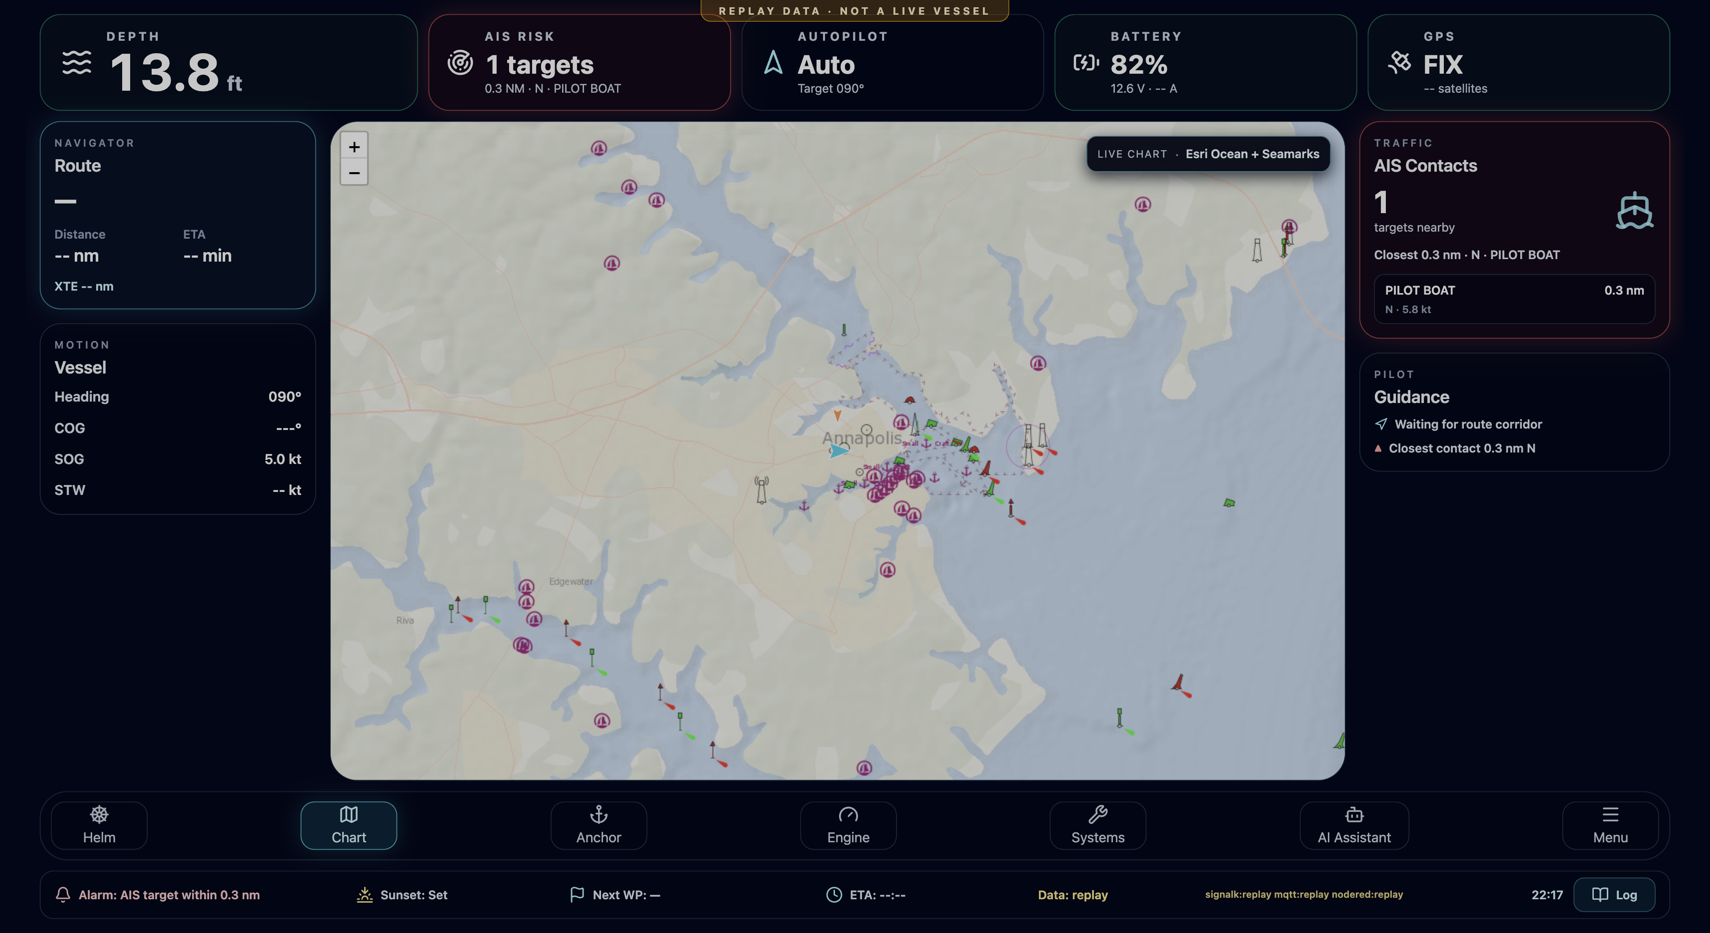
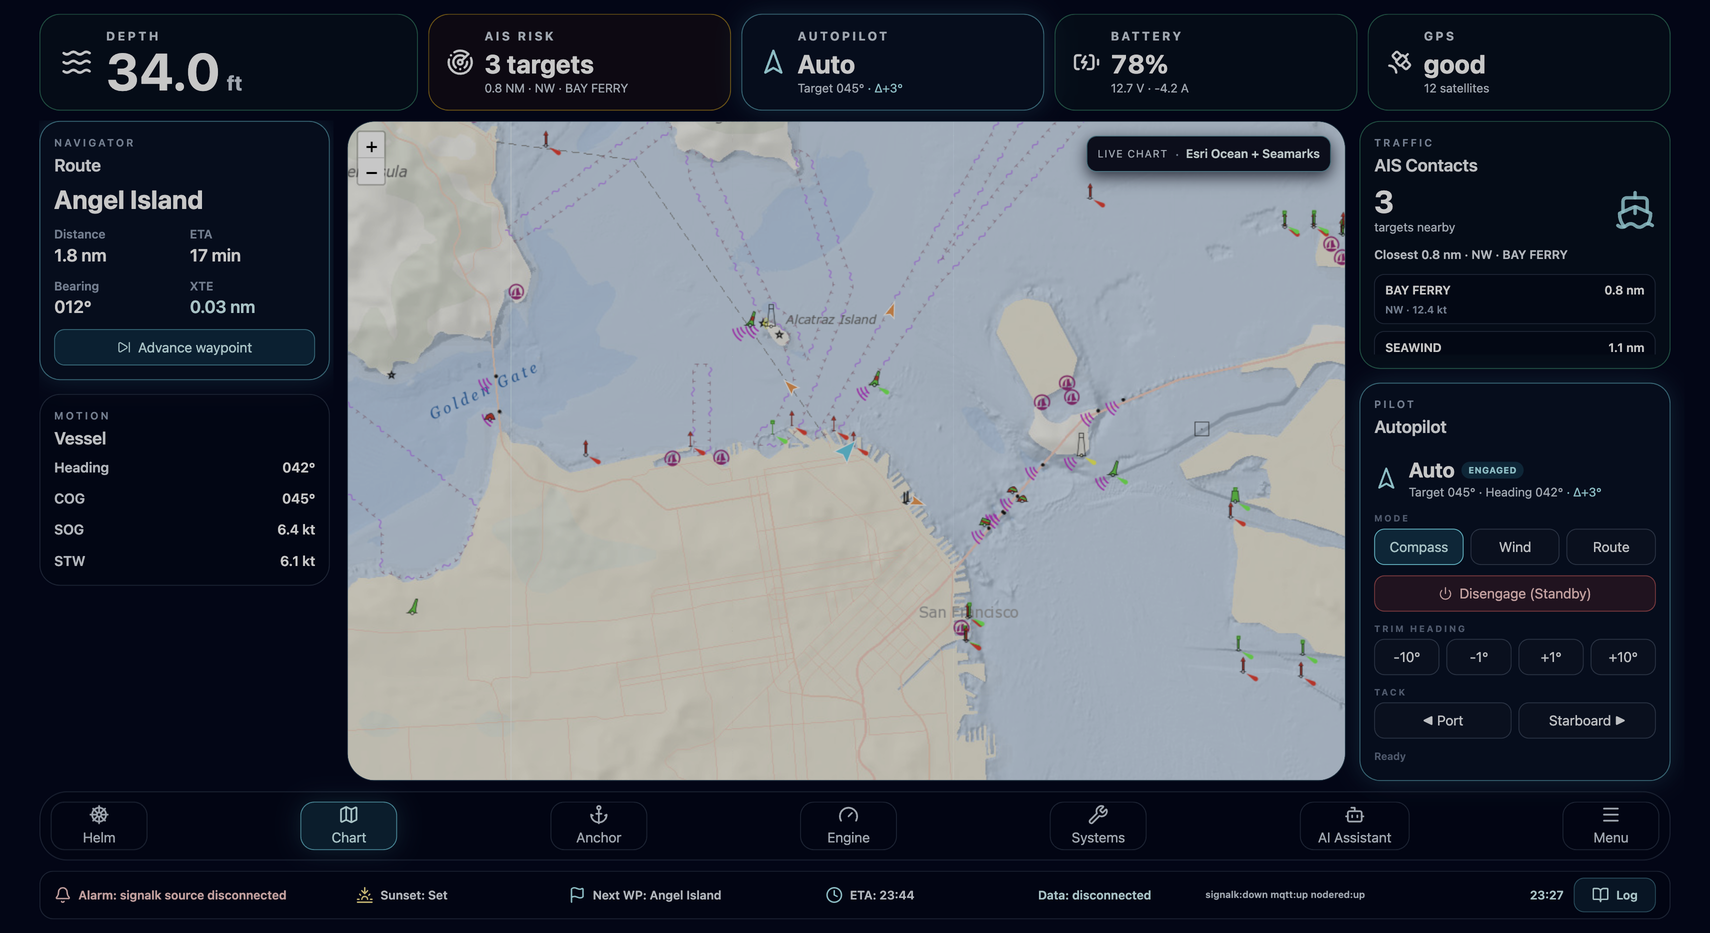
feat: refine autopilot control layout and document it
- Rework the autopilot control card: dedicated Mode row (Compass/Wind/
  Route), a clear full-width Disengage (Standby), and labeled Trim/Tack
  sections with an engaged-state badge, so the buttons read cleanly.
- Let the AIS list flex/scroll so the control card is never clipped.
- README: add an "Autopilot & route control" section and screenshot,
  document POST /command and the command-topic prefix, note the guarded
  controls in the safety section, and refresh the Chart screenshot.

diff --git a/src/components/autopilot/AutopilotControl.tsx b/src/components/autopilot/AutopilotControl.tsx
@@ -50,85 +50,105 @@ export function AutopilotControl() {
   const btn =
     'rounded-xl border px-3 py-2 text-sm font-bold transition disabled:cursor-not-allowed disabled:opacity-40';
   const neutralBtn = `${btn} border-slate-600/70 bg-slate-900/60 text-slate-100 hover:border-cyan-300/60`;
+  const sectionLabel = 'mb-1 text-[0.65rem] font-bold uppercase tracking-[0.22em] text-slate-500';
 
   return (
-    <Card title="Autopilot" eyebrow="Pilot" tone={engagedTone} className="flex flex-col gap-3">
+    <Card title="Autopilot" eyebrow="Pilot" tone={engagedTone} className="flex shrink-0 flex-col gap-3">
       <div className="flex items-center gap-3">
         <Navigation2 className={`h-7 w-7 shrink-0 ${engaged ? 'text-cyan-200' : 'text-slate-400'}`} />
         <div className="min-w-0 flex-1">
-          <div className="text-2xl font-bold capitalize text-white">{autopilot.state ?? '—'}</div>
+          <div className="flex items-center gap-2">
+            <span className="text-2xl font-bold capitalize text-white">{autopilot.state ?? '—'}</span>
+            <span
+              className={`rounded-full px-2 py-0.5 text-[0.65rem] font-bold uppercase tracking-wider ${
+                engaged ? 'bg-cyan-500/20 text-cyan-200' : 'bg-slate-700/60 text-slate-300'
+              }`}
+            >
+              {engaged ? 'Engaged' : 'Standby'}
+            </span>
+          </div>
           <div className="text-sm text-slate-300">
             Target {formatDegrees(autopilot.headingTarget)} · Heading {formatDegrees(headingTrue)}
             {deviation !== null && (
-              <span className="text-cyan-200"> · {deviation > 0 ? 'Δ+' : 'Δ'}{Math.round(deviation)}°</span>
+              <span className="text-cyan-200"> · Δ{deviation > 0 ? '+' : ''}{Math.round(deviation)}°</span>
             )}
           </div>
         </div>
       </div>
 
-      {/* Engage / mode selection */}
-      <div className="grid grid-cols-4 gap-2">
-        {ENGAGE_MODES.map((mode) => {
-          const active = engaged && autopilot.state?.toLowerCase() === mode;
-          return (
-            <button
-              key={mode}
-              type="button"
-              disabled={disabled}
-              onClick={() => request({ kind: 'setState', state: mode }, `Engage ${ENGAGE_MODE_LABELS[mode]} mode`)}
-              className={`${btn} ${
-                active
-                  ? 'border-cyan-300 bg-cyan-500/20 text-cyan-100'
-                  : 'border-slate-600/70 bg-slate-900/60 text-slate-100 hover:border-cyan-300/60'
-              }`}
-            >
-              {ENGAGE_MODE_LABELS[mode]}
-            </button>
-          );
-        })}
-        <button
-          type="button"
-          disabled={disabled || !engaged}
-          onClick={() => request({ kind: 'setState', state: 'standby' }, 'Disengage (Standby)')}
-          className={`${btn} flex items-center justify-center gap-1 border-red-400/60 bg-red-500/15 text-red-200 hover:bg-red-500/25`}
-        >
-          <Power className="h-4 w-4" /> Std
-        </button>
+      {/* Mode selection */}
+      <div>
+        <div className={sectionLabel}>Mode</div>
+        <div className="grid grid-cols-3 gap-2">
+          {ENGAGE_MODES.map((mode) => {
+            const active = engaged && autopilot.state?.toLowerCase() === mode;
+            return (
+              <button
+                key={mode}
+                type="button"
+                disabled={disabled}
+                onClick={() => request({ kind: 'setState', state: mode }, `Engage ${ENGAGE_MODE_LABELS[mode]} mode`)}
+                className={`${btn} ${
+                  active
+                    ? 'border-cyan-300 bg-cyan-500/20 text-cyan-100'
+                    : 'border-slate-600/70 bg-slate-900/60 text-slate-100 hover:border-cyan-300/60'
+                }`}
+              >
+                {ENGAGE_MODE_LABELS[mode]}
+              </button>
+            );
+          })}
+        </div>
       </div>
 
+      <button
+        type="button"
+        disabled={disabled || !engaged}
+        onClick={() => request({ kind: 'setState', state: 'standby' }, 'Disengage (Standby)')}
+        className={`${btn} flex items-center justify-center gap-2 border-red-400/60 bg-red-500/15 text-red-200 hover:bg-red-500/25`}
+      >
+        <Power className="h-4 w-4" /> Disengage (Standby)
+      </button>
+
       {/* Heading trim */}
-      <div className="grid grid-cols-4 gap-2">
-        {HEADING_NUDGES_DEGREES.map((delta) => (
-          <button
-            key={delta}
-            type="button"
-            disabled={disabled || !engaged}
-            onClick={() => request({ kind: 'adjustHeading', deltaDegrees: delta }, trimLabel(delta))}
-            className={neutralBtn}
-          >
-            {trimLabel(delta)}
-          </button>
-        ))}
+      <div>
+        <div className={sectionLabel}>Trim heading</div>
+        <div className="grid grid-cols-4 gap-2">
+          {HEADING_NUDGES_DEGREES.map((delta) => (
+            <button
+              key={delta}
+              type="button"
+              disabled={disabled || !engaged}
+              onClick={() => request({ kind: 'adjustHeading', deltaDegrees: delta }, trimLabel(delta))}
+              className={neutralBtn}
+            >
+              {trimLabel(delta)}
+            </button>
+          ))}
+        </div>
       </div>
 
       {/* Tack */}
-      <div className="grid grid-cols-2 gap-2">
-        <button
-          type="button"
-          disabled={disabled || !engaged}
-          onClick={() => request({ kind: 'tack', direction: 'port' }, 'Tack to port')}
-          className={neutralBtn}
-        >
-          ◀ Tack Port
-        </button>
-        <button
-          type="button"
-          disabled={disabled || !engaged}
-          onClick={() => request({ kind: 'tack', direction: 'starboard' }, 'Tack to starboard')}
-          className={neutralBtn}
-        >
-          Tack Stbd ▶
-        </button>
+      <div>
+        <div className={sectionLabel}>Tack</div>
+        <div className="grid grid-cols-2 gap-2">
+          <button
+            type="button"
+            disabled={disabled || !engaged}
+            onClick={() => request({ kind: 'tack', direction: 'port' }, 'Tack to port')}
+            className={neutralBtn}
+          >
+            ◀ Port
+          </button>
+          <button
+            type="button"
+            disabled={disabled || !engaged}
+            onClick={() => request({ kind: 'tack', direction: 'starboard' }, 'Tack to starboard')}
+            className={neutralBtn}
+          >
+            Starboard ▶
+          </button>
+        </div>
       </div>
 
       {/* Status / confirm / replay notice */}

diff --git a/src/components/screens/ChartScreen.tsx b/src/components/screens/ChartScreen.tsx
@@ -230,7 +230,7 @@ export function ChartScreen() {
       </div>
 
       <aside className="flex min-h-0 flex-col gap-4">
-        <Card title="AIS Contacts" eyebrow="Traffic" tone={ais.riskLevel === 'danger' ? 'danger' : ais.riskLevel === 'warning' ? 'warning' : 'safe'}>
+        <Card title="AIS Contacts" eyebrow="Traffic" className="flex min-h-0 flex-1 flex-col" tone={ais.riskLevel === 'danger' ? 'danger' : ais.riskLevel === 'warning' ? 'warning' : 'safe'}>
           <div className="flex items-center justify-between">
             <div>
               <div className="text-4xl font-bold text-white">{ais.targets}</div>

diff --git a/README.md b/README.md
@@ -16,6 +16,7 @@ It is **not** a replacement for OpenPlotter, Signal K, OpenCPN, Node-RED, MQTT, 
 
 - [Why HelmUI](#why-helmui)
 - [Screens](#screens)
+- [Autopilot & route control](#autopilot--route-control)
 - [In-app customization](#in-app-customization)
 - [How it fits your boat (architecture)](#how-it-fits-your-boat-architecture)
 - [Safety-first design](#safety-first-design)
@@ -51,7 +52,7 @@ The default cockpit view: speed, heading, water temperature, wind, batteries, bi
 ![Helm screen](docs/screenshots/helm.png)
 
 ### Chart
-A larger nautical chart with route, vessel motion, and an AIS contact list. The chart layer is selectable (see [customization](#in-app-customization)) and falls back gracefully to a readable street base wherever chart coverage is missing.
+A larger nautical chart that draws your **active route** — the current leg, a dashed course-to-steer to the next waypoint, and waypoint markers — alongside vessel motion and a live AIS contact list. The chart layer is selectable (see [customization](#in-app-customization)) and falls back gracefully to a readable street base wherever chart coverage is missing. It is also where you drive the autopilot and route (see [Autopilot & route control](#autopilot--route-control)).
 
 ![Chart screen](docs/screenshots/chart.png)
 
@@ -79,6 +80,23 @@ An optional, context-aware co-pilot pane for plain-language summaries ("summariz
 Display brightness and theme, data-source health, safety thresholds (depth warning, depth offset, anchor radius), kiosk options, chart and connectivity settings, and settings backup/restore.
 
 ![Settings screen](docs/screenshots/settings.png)
+
+---
+
+## Autopilot & route control
+
+From the Chart screen you can command a Signal K / Pypilot-style autopilot directly — with guard rails built in:
+
+- **Engage a mode** — Compass (heading hold), Wind, or Route.
+- **Trim the target heading** — ±1° for fine corrections, ±10° for larger ones.
+- **Tack** to port or starboard, and **Disengage** to Standby at any time.
+- **Advance to the next waypoint** from the Route panel.
+
+Engaging, disengaging, tacking, and skipping a waypoint always ask for a **one-tap confirmation** first; small heading trims apply immediately; and **every control is disabled in replay mode** so recorded telemetry can never command real hardware. Each command's result (or failure) is shown right on the panel.
+
+Commands travel over whichever transport is active: a **Signal K `PUT`** in the direct profile, or a **`POST /command`** to the bridge — which republishes to MQTT as `helmui/autopilot/command/<action>` — in the production profile, ready for Node-RED or the Signal K autopilot plugin to act on.
+
+![Autopilot control panel](docs/screenshots/autopilot-control.png)
 
 ---
 
@@ -150,6 +168,7 @@ Only `mode`, UI settings, saved dashboards, and the anchor radius are persisted 
 - **Honest source status.** The status bar and Systems screen show each source as `online`, `down`, or `n/a` — never a green light for a source that is silent.
 - **Replay is clearly marked.** A benchtop **replay** mode can loop a fixture for demos and CI, but it is surfaced end-to-end (banner + `Data: replay` + `signalk:replay`) so replayed data can never be mistaken for a live vessel.
 - **Persistent alarms.** Depth, bilge flood, anchor drift, and source-disconnect conditions are evaluated on a fixed cadence even if the stream goes quiet.
+- **Guarded controls.** Autopilot commands that change how the boat steers — engage, disengage, tack, and waypoint skip — require an explicit confirmation, and every control is disabled in replay mode so recorded data can never command hardware.
 
 ---
 
@@ -262,6 +281,7 @@ HelmUI is configured with Vite env vars (build/runtime) and the bridge with `BRI
 | `BRIDGE_MQTT_URL` | MQTT broker URL | `mqtt://127.0.0.1:1883` |
 | `BRIDGE_MQTT_BRIGHTNESS_TOPIC` | Physical brightness knob topic | `helmui/kiosk/brightness` |
 | `BRIDGE_MQTT_AUTOPILOT_STATE_TOPIC` | Autopilot state topic | `helmui/autopilot/state` |
+| `BRIDGE_MQTT_AUTOPILOT_COMMAND_PREFIX` | Prefix for outbound autopilot commands (`<prefix>/{state,heading,adjust,tack,advance}`) | `helmui/autopilot/command` |
 | `BRIDGE_REPLAY_FILE` | Loop a fixture instead of live sources (**never on the boat**) | `backend/bridge/fixtures/bench-pass.json` |
 
 ---
@@ -298,6 +318,7 @@ The bridge exposes:
 - `GET /sources` — source connectivity summary
 - `GET /last-seen` — last normalized patch metadata
 - `WS /ws` — canonical telemetry stream (`snapshot`, `delta`, `health`)
+- `POST /command` — outbound autopilot commands (`{ "type": "state|heading|adjust|tack|advance", "value": … }`), republished to MQTT. Refused in replay mode.
 
 Pre-departure smoke check:
 
@@ -316,7 +337,7 @@ HelmUI is an actively developed MVP. On the near-term list:
 - Drag-and-drop tile moving (in addition to the current move buttons)
 - Live endpoint reconnection without a reload
 - More instrument tiles and per-tile configuration
-- Deeper autopilot and route interaction
+- Full multi-leg route resources on the chart (building on the current active-leg rendering)
 
 Ideas and requests are very welcome — see below.
 
